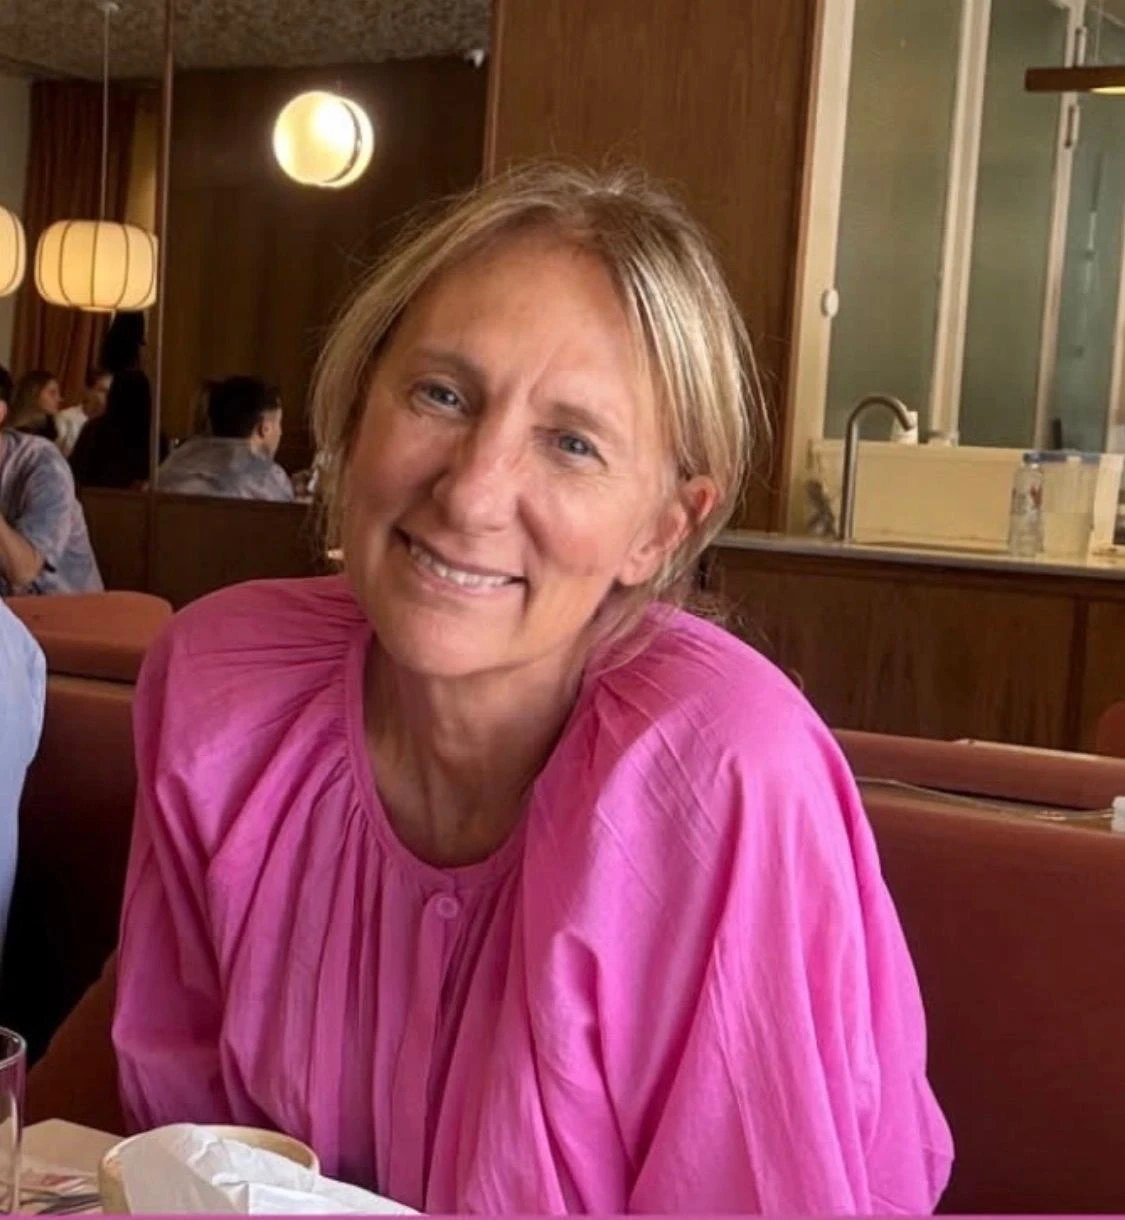
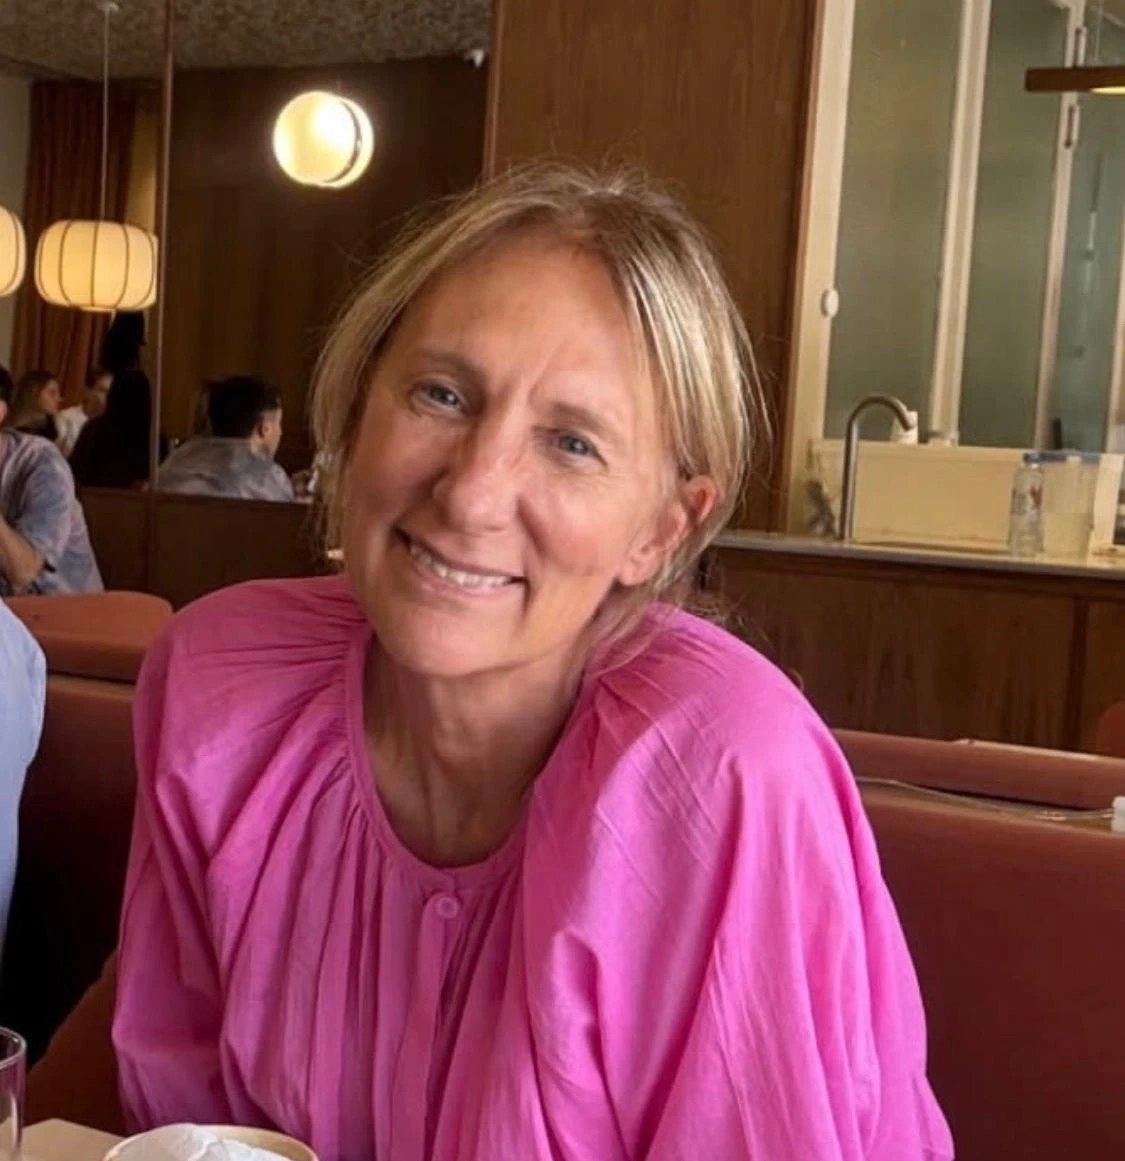
Carolina: texto legible sobre el dorado + foto sin la línea rosada
Velo cálido sobre la textura y panel crema translúcido (blur) detrás
de la columna de texto; la foto se recortó 59 px abajo para sacar la
franja rosada del original.

diff --git a/css/estilo.css b/css/estilo.css
@@ -82,16 +82,18 @@ img{display:block;max-width:100%}
 
 /* ── CAROLINA ── */
 .caro-fondo{position:fixed;inset:0;z-index:-2;background:url('../assets/oro.jpg') center/cover}
+/* velo suave: baja el brillo del dorado para que el texto respire */
+.caro-fondo::after{content:'';position:absolute;inset:0;background:rgba(247,240,222,.38)}
 .caro-wrap{max-width:1340px;margin:0 auto;padding:0 clamp(22px,5vw,62px);display:grid;grid-template-columns:minmax(280px,5fr) 7fr;gap:clamp(26px,4.5vw,70px);align-items:end}
 .caro-foto{align-self:end}
 .caro-foto img{width:100%;max-width:520px;box-shadow:0 6px 40px rgba(60,40,0,.35)}
-.caro-col{padding:5vh 0 8vh}
+.caro-col{padding:5vh clamp(18px,2.6vw,40px) 7vh;margin:4vh 0 6vh;background:rgba(248,242,228,.58);backdrop-filter:blur(4px);-webkit-backdrop-filter:blur(4px);box-shadow:0 10px 50px rgba(90,60,10,.12)}
 .caro-col h1{font:500 clamp(42px,5.4vw,72px)/1.1 var(--display);letter-spacing:.24em;color:#221A0C}
 .caro-col .sub{font:500 14px/1 var(--serif);letter-spacing:.32em;color:#5A430F;margin:14px 0 30px}
-.caro-col .intro{font-size:18.5px;line-height:1.75;color:#33290F;max-width:52ch}
+.caro-col .intro{font-size:18.5px;line-height:1.75;color:#2A2109;max-width:52ch}
 .caro-bloques{display:grid;grid-template-columns:1fr 1fr;gap:34px clamp(24px,3vw,46px);margin-top:44px}
 .caro-bloques h3{font:600 13.5px/1.3 var(--serif);letter-spacing:.12em;color:#3E2E08}
-.caro-bloques p{font-size:15px;line-height:1.7;color:#4A3A14;margin-top:8px}
+.caro-bloques p{font-size:15px;line-height:1.7;color:#3B2E0F;margin-top:8px}
 
 /* ── CONTACTO ── */
 .cont-wrap{max-width:1340px;margin:0 auto;padding:7vh clamp(22px,5vw,62px) 10vh;max-width:640px;margin-left:clamp(22px,7vw,120px)}
